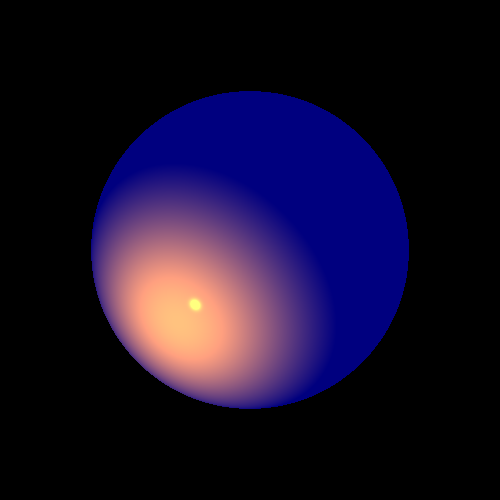
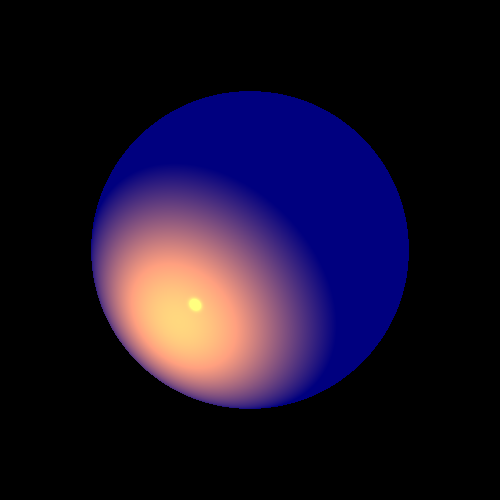
targil6 finishhhh and work

Changed region(s): [[0.21, 0.45, 0.57, 0.78]]

diff --git a/unitTests/lighting/LightsTests.java b/unitTests/lighting/LightsTests.java
@@ -25,7 +25,6 @@ public class LightsTests {
     private Camera camera2 = new Camera(new Point(0, 0, 1000), new Vector(0, 0, -1), new Vector(0, 1, 0)) //
             .setVPSize(200, 200) //
             .setVPDistance(1000);
-
     private Point[] p = { // The Triangles' vertices:
             new Point(-110, -110, -150), // the shared left-bottom
             new Point(95, 100, -150), // the shared right-top
@@ -42,7 +41,6 @@ public class LightsTests {
     private Geometry sphere = new Sphere(new Point(0, 0, -50), 50d) //
             .setEmission(new Color(BLUE).reduce(2)) //
             .setMaterial(new Material().setkD(0.5).setkS(0.5).setnShininess(300));
-
     /**
      * Produce a picture of a sphere lighted by a directional light
      */
@@ -50,14 +48,12 @@ public class LightsTests {
     public void sphereDirectional() {
         scene1.getGeometries().add(sphere);
         scene1.getLights().add(new DirectionalLight(spCL, new Vector(1, 1, -0.5)));
-
         ImageWriter imageWriter = new ImageWriter("lightSphereDirectional", 500, 500);
         camera1.setImageWriter(imageWriter) //
                 .setRayTracer(new RayTracerBasic(scene1)) //
                 .renderImage(); //
-        camera1.writeToImage(); //
+        camera1.writeToImage();
     }
-
     /**
      * Produce a picture of a sphere lighted by a point light
      */
@@ -65,14 +61,12 @@ public class LightsTests {
     public void spherePoint() {
         scene1.getGeometries().add(sphere);
         scene1.getLights().add(new PointLight(spCL, spPL).setkL(0.001).setkQ(0.0002));
-
         ImageWriter imageWriter = new ImageWriter("lightSpherePoint", 500, 500);
         camera1.setImageWriter(imageWriter) //
                 .setRayTracer(new RayTracerBasic(scene1)) //
                 .renderImage(); //
         camera1.writeToImage(); //
     }
-
     /**
      * Produce a picture of a sphere lighted by a spot light
      */
@@ -80,14 +74,12 @@ public class LightsTests {
     public void sphereSpot() {
         scene1.getGeometries().add(sphere);
         scene1.getLights().add(new SpotLight(spCL, spPL, new Vector(1, 1, -0.5)).setkL(0.001).setkQ(0.0001));
-
         ImageWriter imageWriter = new ImageWriter("lightSphereSpot", 500, 500);
         camera1.setImageWriter(imageWriter) //
                 .setRayTracer(new RayTracerBasic(scene1)) //
                 .renderImage(); //
         camera1.writeToImage(); //
     }
-
     /**
      * Produce a picture of a two triangles lighted by a directional light
      */
@@ -95,14 +87,12 @@ public class LightsTests {
     public void trianglesDirectional() {
         scene2.getGeometries().add(triangle1, triangle2);
         scene2.getLights().add(new DirectionalLight(trCL, trDL));
-
         ImageWriter imageWriter = new ImageWriter("lightTrianglesDirectional", 500, 500);
         camera2.setImageWriter(imageWriter) //
                 .setRayTracer(new RayTracerBasic(scene2)) //
                 .renderImage(); //
         camera2.writeToImage(); //
     }
-
     /**
      * Produce a picture of a two triangles lighted by a point light
      */
@@ -110,14 +100,12 @@ public class LightsTests {
     public void trianglesPoint() {
         scene2.getGeometries().add(triangle1, triangle2);
         scene2.getLights().add(new PointLight(trCL, trPL).setkL(0.001).setkQ(0.0002));
-
         ImageWriter imageWriter = new ImageWriter("lightTrianglesPoint", 500, 500);
         camera2.setImageWriter(imageWriter) //
                 .setRayTracer(new RayTracerBasic(scene2)) //
                 .renderImage(); //
         camera2.writeToImage(); //
     }
-
     /**
      * Produce a picture of a two triangles lighted by a spot light
      */
@@ -125,14 +113,12 @@ public class LightsTests {
     public void trianglesSpot() {
         scene2.getGeometries().add(triangle1, triangle2);
         scene2.getLights().add(new SpotLight(trCL, trPL, trDL).setkL(0.001).setkQ(0.0001));
-
         ImageWriter imageWriter = new ImageWriter("lightTrianglesSpot", 500, 500);
         camera2.setImageWriter(imageWriter) //
                 .setRayTracer(new RayTracerBasic(scene2)) //
                 .renderImage(); //
         camera2.writeToImage(); //
     }
-
     /**
      * Produce a picture of a sphere lighted by a narrow spot light
      */
@@ -140,28 +126,24 @@ public class LightsTests {
     public void sphereSpotSharp() {
         scene1.getGeometries().add(sphere);
         scene1.getLights()
-                .add(new SpotLight(spCL, spPL, new Vector(1, 1, -0.5)).setNarrowBeam(10).setkL(0.001).setkQ(0.00004));
-
-        ImageWriter imageWriter = new ImageWriter("lightSphereSpotSharp", 500, 500);
+                .add(new SpotLight(spCL, spPL, new Vector(1, 1, -0.5)).setkL(0.1).setkQ(0.00004));
+        ImageWriter imageWriter = new ImageWriter("lightSphereSpotSharp1", 500, 500);
         camera1.setImageWriter(imageWriter) //
                 .setRayTracer(new RayTracerBasic(scene1)) //
                 .renderImage(); //
         camera1.writeToImage(); //
     }
-
     /**
      * Produce a picture of a two triangles lighted by a narrow spot light
      */
     @Test
     public void trianglesSpotSharp() {
         scene2.getGeometries().add(triangle1, triangle2);
-        scene2.getLights().add(new SpotLight(trCL, trPL, trDL).setNarrowBeam(10).setkL(0.001).setkQ(0.00004));
-
+        scene2.getLights().add(new SpotLight(trCL, trPL, trDL).setkL(0.001).setkQ(0.003));
         ImageWriter imageWriter = new ImageWriter("lightTrianglesSpotSharp", 500, 500);
         camera2.setImageWriter(imageWriter) //
                 .setRayTracer(new RayTracerBasic(scene2)) //
                 .renderImage(); //
         camera2.writeToImage(); //
     }
-
 }

diff --git a/unitTests/renderer/RenderTests.java b/unitTests/renderer/RenderTests.java
@@ -5,10 +5,9 @@ import org.junit.jupiter.api.Test;
 import lighting.AmbientLight;
 import geometries.*;
 import primitives.*;
+import renderer.*;
 import Scene.Scene;
-
 import static java.awt.Color.*;
-import static java.awt.Color.YELLOW;
 
 /**
  * Test rendering a basic image
@@ -26,8 +25,7 @@ public class RenderTests {
 		Scene scene = new Scene.SceneBuilder("Test scene")//
 				.setAmbientLight(new AmbientLight(new Color(255, 191, 191), //
 						new Double3(1, 1, 1))) //
-				.setBackground(new Color(75, 127, 90))
-				.build();
+				.setBackground(new Color(75, 127, 90)).build();
 
 		scene.getGeometries().add(new Sphere(new Point(0, 0, -100), 50d),
 				new Triangle(new Point(-100, 0, -100), new Point(0, 100, -100), new Point(-100, 100, -100)), // up
@@ -45,7 +43,9 @@ public class RenderTests {
 		camera.renderImage();
 		camera.printGrid(100, new Color(YELLOW));
 		camera.writeToImage();
-	}// For stage 6 - please disregard in stage 5
+	}
+
+	// For stage 6 - please disregard in stage 5
 	/**
 	 * Produce a scene with basic 3D model - including individual lights of the
 	 * bodies and render it into a png image with a grid
@@ -56,6 +56,7 @@ public class RenderTests {
 				.setAmbientLight(new AmbientLight(new Color(WHITE), new Double3(0.2))).build(); //
 
 		scene.getGeometries().add( //
+
 				new Sphere(new Point(0, 0, -100), 50),
 				// up left
 				new Triangle(new Point(-100, 0, -100), new Point(0, 100, -100), new Point(-100, 100, -100))
@@ -80,10 +81,13 @@ public class RenderTests {
 
 	/**
 	 * Test for XML based scene - for bonus
+	 *///
 
+
+	/*
 	@Test
 	public void basicRenderXml() {
-		Scene scene = new Scene.SceneBuilder("XML Test scene").build();
+		Scene scene = new Scene("XML Test scene");
 		// enter XML file name and parse from XML file into scene object
 		// ...
 
@@ -94,6 +98,6 @@ public class RenderTests {
 		camera.renderImage();
 		camera.printGrid(100, new Color(YELLOW));
 		camera.writeToImage();
-	}
-	*/
+	}//*/
+
 }
